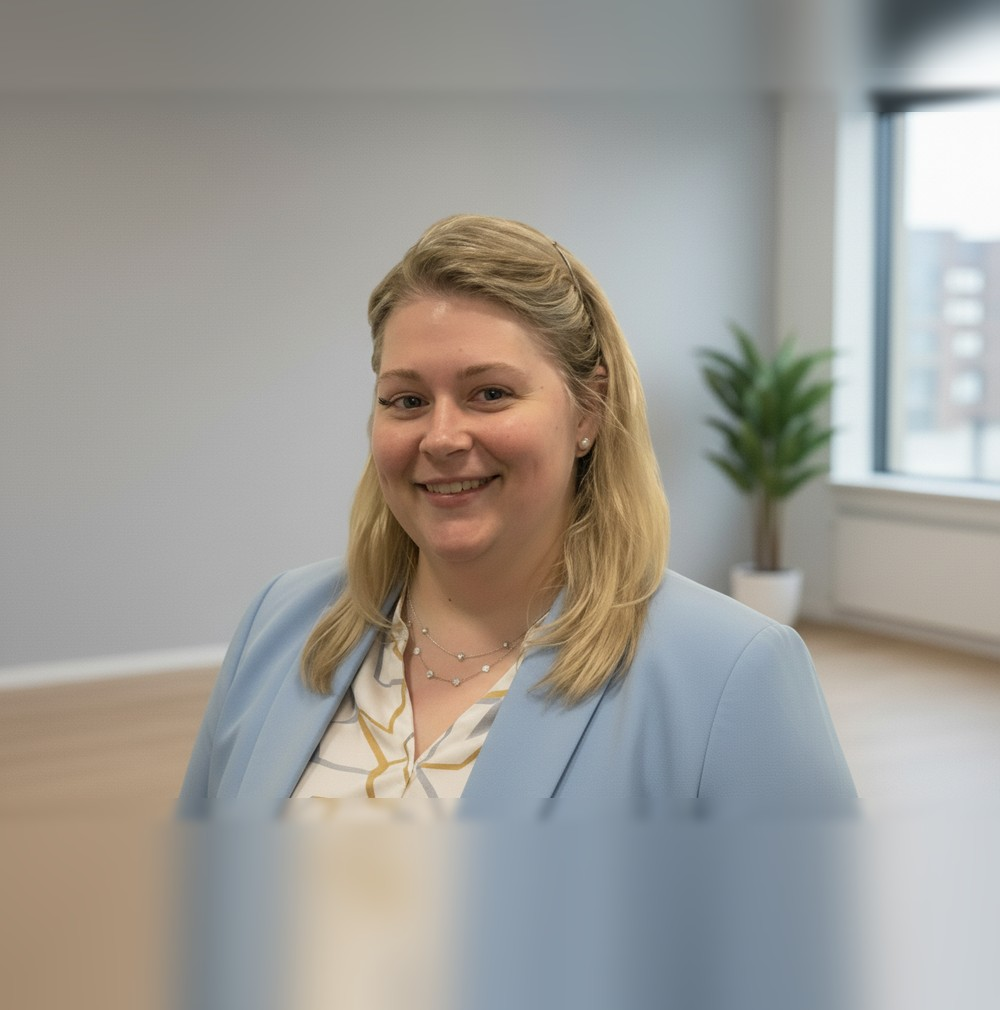
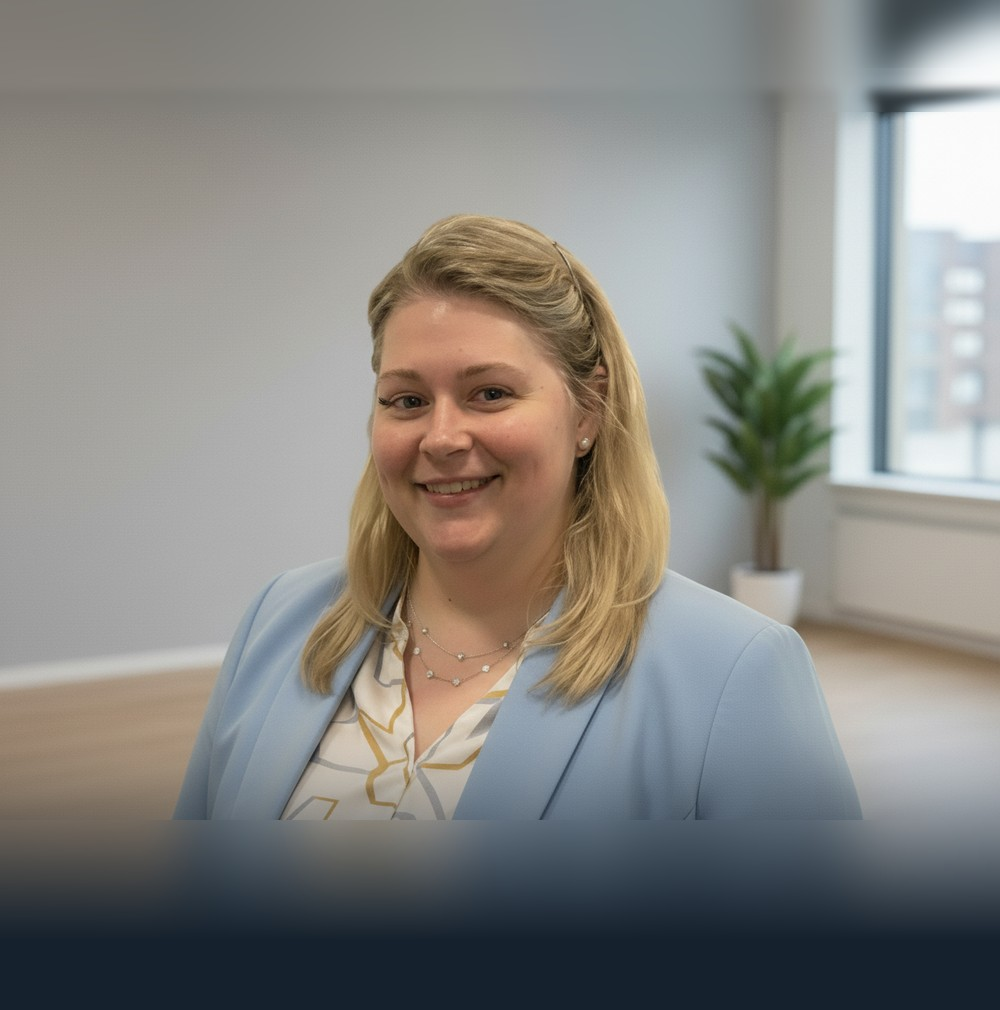
Portrait: bottom of the image darkens into the page colour, no visible blurred band
Claude-Session: https://claude.ai/code/session_01QdJHVasJVeAtSUd5F16CVQ

Changed region(s): [[0.0, 0.7366, 1.0, 1.0]]

diff --git a/index.html b/index.html
@@ -11,7 +11,7 @@
 <link rel="alternate" hreflang="x-default" href="https://nishizawagsz.github.io/"/>
 <style>.lang-pending #site{visibility:hidden}</style>
 <script type="application/ld+json">
-{"@context":"https://schema.org","@type":"Person","name":"Gabriella Nishizawa","honorificPrefix":"Dr.","alternateName":["Dr. Gabriella Nishizawa","Nishizawa Gabriella"],"url":"https://nishizawagsz.github.io/","image":"https://nishizawagsz.github.io/assets/gabriella-portrait.jpg?v=7","jobTitle":["School librarian","Teacher","Examiner","Developer"],"description":"School librarian and teacher in Yokohama who builds reading, research and ethical AI skills, from kindergarten to the IB Diploma. Cambridge and IB examiner, computer science educator and iOS developer.","knowsAbout":["School libraries","Information literacy","Academic integrity","Responsible AI use in education","Reading promotion","Extended Essay supervision","Cognitive linguistics","Computer science education"],"knowsLanguage":["en","hu","de","ru"],"address":{"@type":"PostalAddress","addressLocality":"Yokohama","addressCountry":"JP"},"email":"mailto:nishizawagsz@gmail.com","sameAs":["https://linkedin.com/in/gabriella-nishizawa","https://nitaii.eu/","https://github.com/nishizawagsz"]}
+{"@context":"https://schema.org","@type":"Person","name":"Gabriella Nishizawa","honorificPrefix":"Dr.","alternateName":["Dr. Gabriella Nishizawa","Nishizawa Gabriella"],"url":"https://nishizawagsz.github.io/","image":"https://nishizawagsz.github.io/assets/gabriella-portrait.jpg?v=8","jobTitle":["School librarian","Teacher","Examiner","Developer"],"description":"School librarian and teacher in Yokohama who builds reading, research and ethical AI skills, from kindergarten to the IB Diploma. Cambridge and IB examiner, computer science educator and iOS developer.","knowsAbout":["School libraries","Information literacy","Academic integrity","Responsible AI use in education","Reading promotion","Extended Essay supervision","Cognitive linguistics","Computer science education"],"knowsLanguage":["en","hu","de","ru"],"address":{"@type":"PostalAddress","addressLocality":"Yokohama","addressCountry":"JP"},"email":"mailto:nishizawagsz@gmail.com","sameAs":["https://linkedin.com/in/gabriella-nishizawa","https://nitaii.eu/","https://github.com/nishizawagsz"]}
 </script>
 <meta property="og:type" content="website"/>
 <meta property="og:title" content="Dr. Gabriella Nishizawa · Libraries, Information and Learning"/>
@@ -485,7 +485,7 @@
 <header class="hero" id="main-content" tabindex="-1"><div aria-hidden="true" class="hero-colourfield"><span class="field-shape field-teal"></span><span class="field-shape field-ochre"></span><span class="field-shape field-coral"></span><span class="field-shape field-violet"></span></div>
 <div class="hero-inner">
 <div class="hero-photo">
-<div class="hero-photo-blob"><img alt="Dr. Gabriella Nishizawa" decoding="async" fetchpriority="high" loading="eager" src="assets/gabriella-portrait.jpg?v=7"/></div>
+<div class="hero-photo-blob"><img alt="Dr. Gabriella Nishizawa" decoding="async" fetchpriority="high" loading="eager" src="assets/gabriella-portrait.jpg?v=8"/></div>
 <button aria-controls="primary-menu" aria-expanded="false" aria-label="Get to know Dr. Gabriella Nishizawa: open site navigation" class="know-me-trigger" type="button"><span class="know-me-kicker">Start here</span><span class="know-me-label">Get to know me</span><span aria-hidden="true" class="know-me-arrow">↗</span></button></div>
 <div>
 <h1 class="hero-name">Dr. Gabriella Nishizawa</h1>
@@ -1404,7 +1404,7 @@
 <header class="hero" id="main-content" tabindex="-1"><div aria-hidden="true" class="hero-colourfield"><span class="field-shape field-teal"></span><span class="field-shape field-ochre"></span><span class="field-shape field-coral"></span><span class="field-shape field-violet"></span></div>
 <div class="hero-inner">
 <div class="hero-photo">
-<div class="hero-photo-blob"><img alt="Dr. Gabriella Nishizawa" decoding="async" fetchpriority="high" loading="eager" src="assets/gabriella-portrait.jpg?v=7"/></div>
+<div class="hero-photo-blob"><img alt="Dr. Gabriella Nishizawa" decoding="async" fetchpriority="high" loading="eager" src="assets/gabriella-portrait.jpg?v=8"/></div>
 <button aria-controls="primary-menu" aria-expanded="false" aria-label="Ismerd meg Dr. Nishizawa Gabriellát: navigáció megnyitása" class="know-me-trigger" type="button"><span class="know-me-kicker">Kezdd itt</span><span class="know-me-label">Ismerj meg</span><span aria-hidden="true" class="know-me-arrow">↗</span></button></div>
 <div>
 <h1 class="hero-name">Dr. Gabriella Nishizawa</h1>
